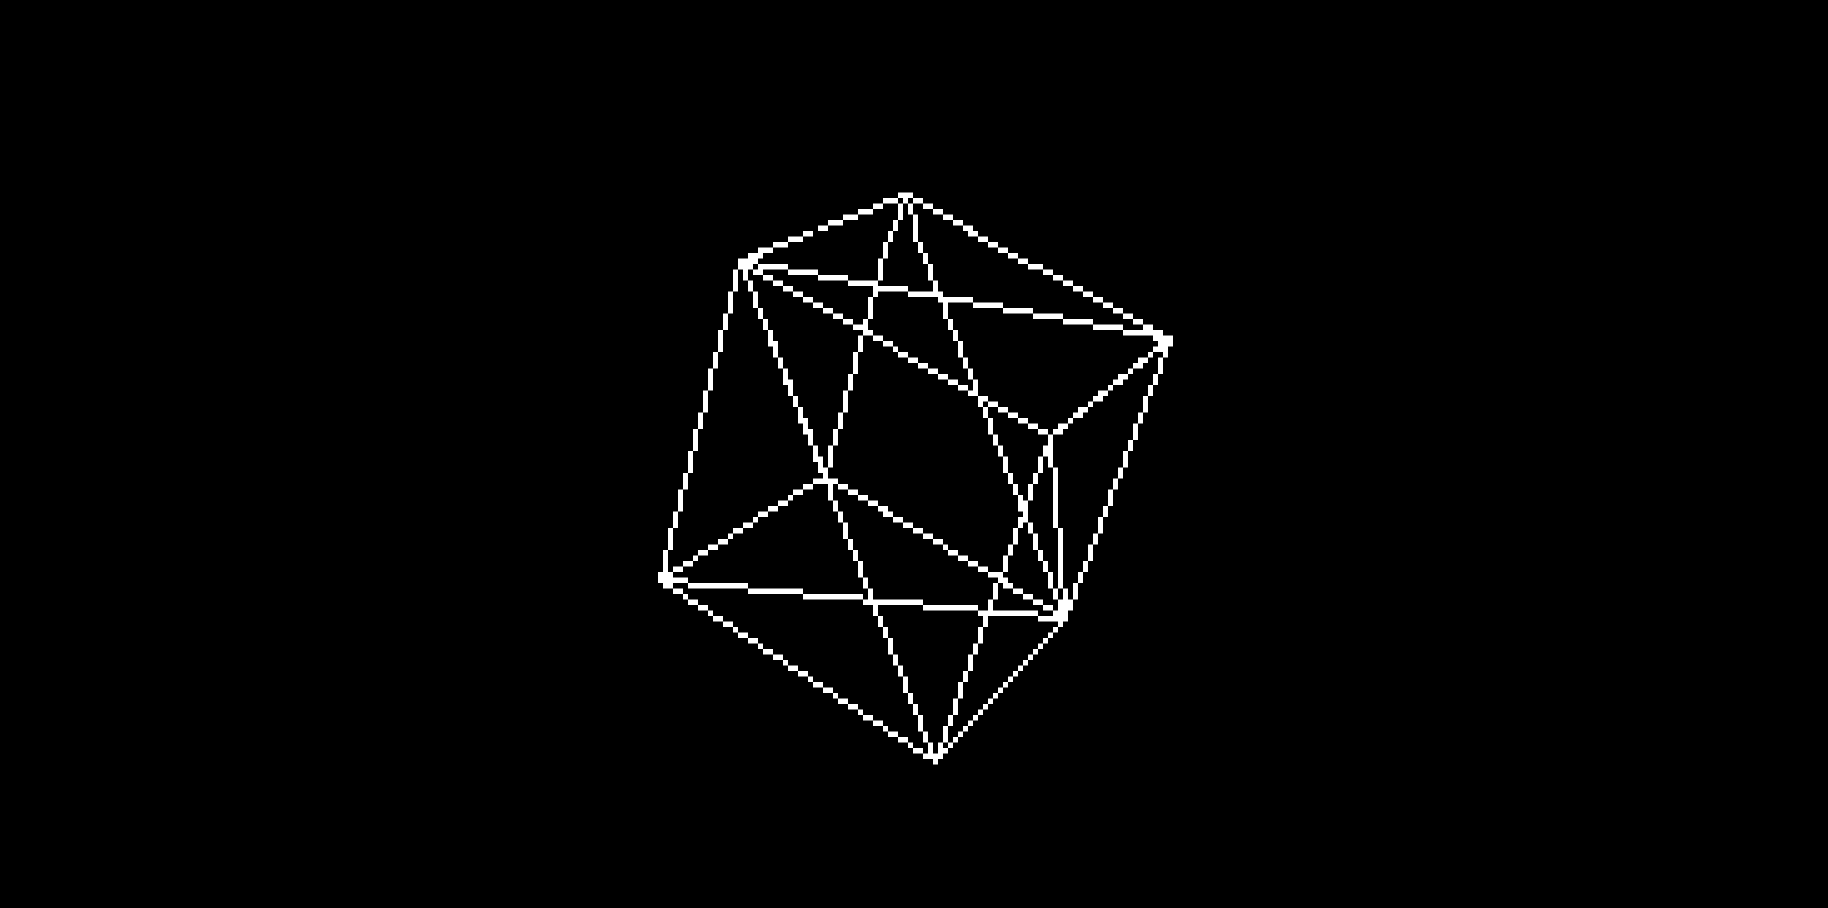
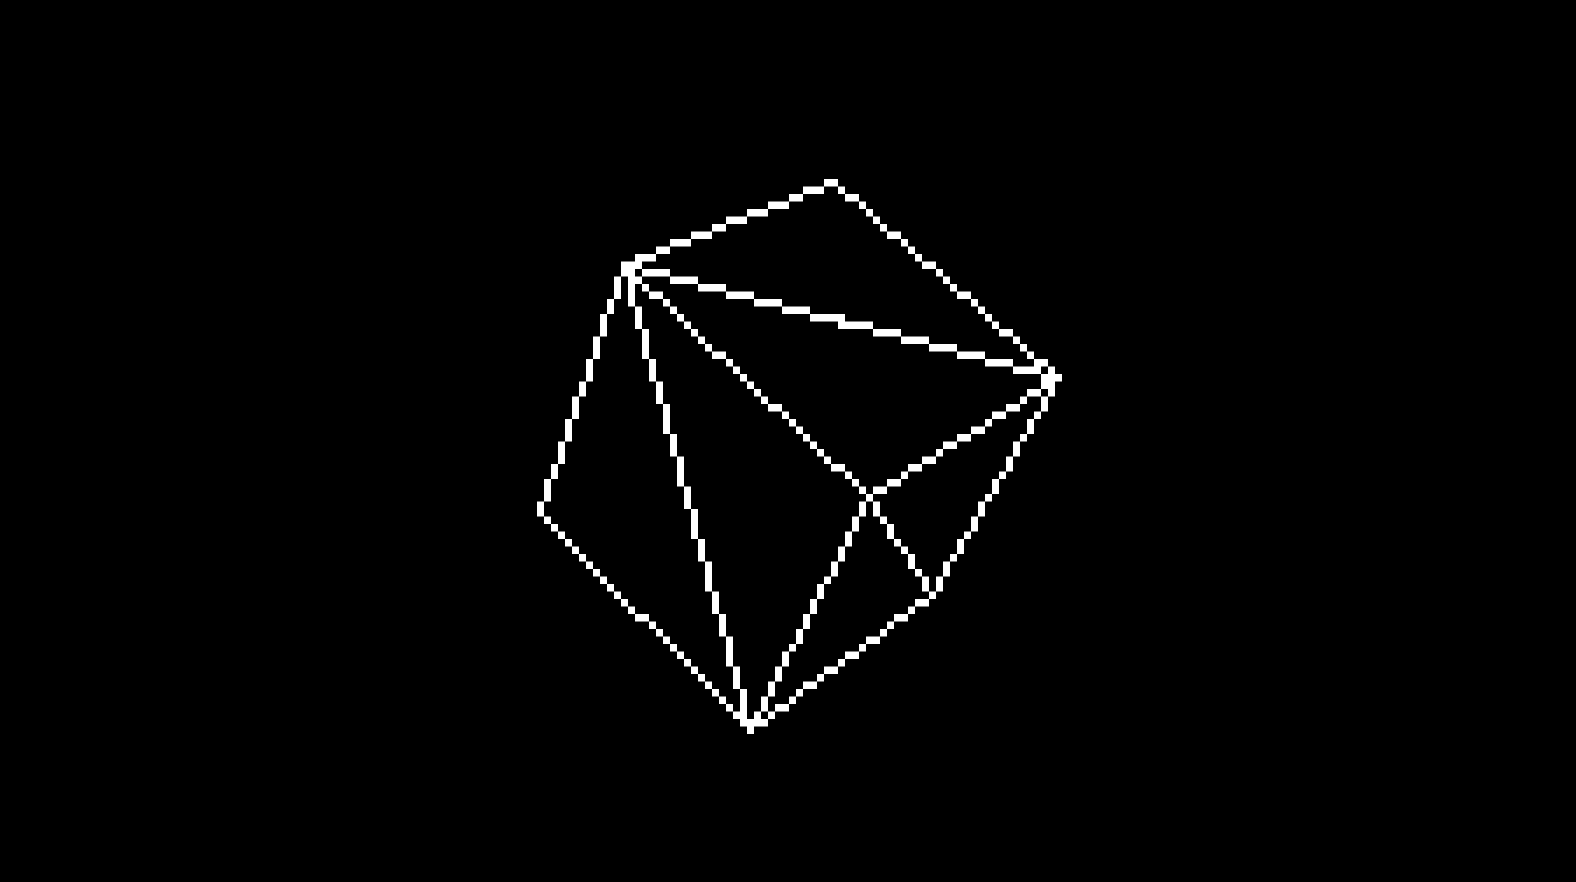
Updated README Content

Changed region(s): [[0.342, 0.1837, 0.684, 0.8571]]

diff --git a/src/scene/mod.rs b/src/scene/mod.rs
@@ -42,15 +42,18 @@ impl App {
     pub fn new() -> Option<Self> {
         let mut scene = Scene::new();
 
+        // This loads the teapot mesh
         // let mut teapot = Mesh::import_obj("./examples/utah_teapot.obj").expect(
         //     "Unable to load mesh"
         // );
         // teapot.use_flat_shading();
-        let mut bunny = Mesh::import_obj("./examples/bunny.obj").expect("Unable to load mesh");
-        bunny.use_flat_shading();
-        bunny = bunny.transform(Transform::scale(RowMat::from_data([[20.0; 3]])));
 
-        let example_mesh = scene.insert(NodeData::Mesh(bunny));
+        // This loads the cube mesh
+        let mut cube = Mesh::construct_cube();
+        cube.use_flat_shading();
+
+        // This inserts the mesh data into the scene tree
+        let example_mesh = scene.insert(NodeData::Mesh(cube));
 
         let camera = scene.insert(NodeData::Camera(Camera::new(1, 1, PI / 6.0, 1.0, 9.0)));
         let c = scene.get_mut(camera)?;

diff --git a/README.md b/README.md
@@ -8,6 +8,12 @@ This is a project I have wanted to work on for quite a while. It's a basic softw
 
 ![Spinning Solid Cube example (Note: There is currently no shading)](<docs/images/Cube Filled Demo.png>)
 
+I've also recently added support for importing simple meshes from OBJ files.
+Here's an example of the [Utah Teapot](https://en.wikipedia.org/wiki/Utah_teapot) obtained [here](https://graphics.cs.utah.edu/teapot/). You can find the object file in the repository over [here](examples/utah_teapot.obj).
+
+![Spinning Teapot Solid example](<docs/images/Teapot Filled Demo.png>)
+![Spinning Teapot Wireframe example (Note: The teapot is hollow and as such has internal faces that face the camera)](<docs/images/Teapot Wireframe Demo.png>)
+
 > Note: There is currently no shading supported. This will be added as an upcoming feature, [see below](#soon-to-be-added)
 
 You can find instructions on setup and controls [here](#setup).
@@ -29,6 +35,7 @@ You can find instructions on setup and controls [here](#setup).
 - Computed normals
 - Texture coordinates
 - Basic lighting models
+- Rendering in a separate window with higher resolution
 
 ## Setup
 
